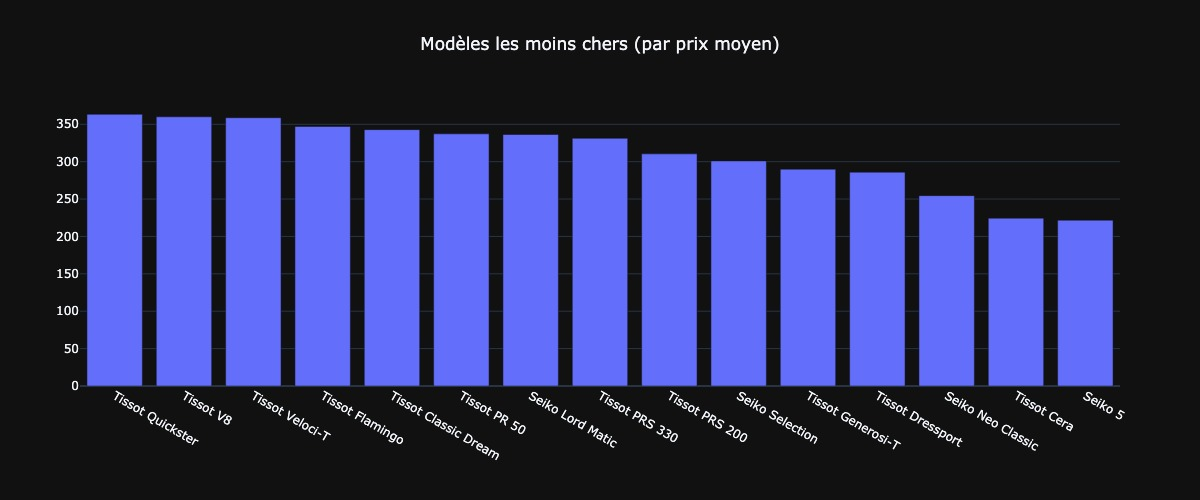
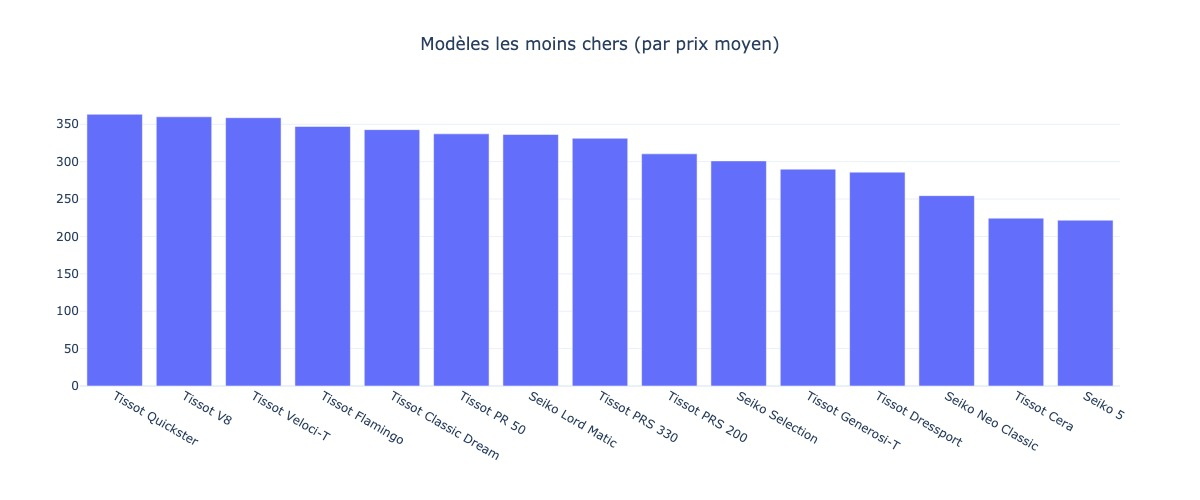
maj chart theme

diff --git a/single_analysis.py b/single_analysis.py
@@ -6,7 +6,7 @@ from utils import listdir_nohidden
 name = list(listdir_nohidden("./data"))[0]
 print(name)
 data = pd.read_csv(f"./data/{name}", index_col=0, sep=";")
-theme = "plotly_dark"
+theme = "plotly_white"
 
 
 count_per_brands = data["brand"].value_counts()

diff --git a/create_readme.py b/create_readme.py
@@ -6,7 +6,7 @@ import datetime
 from utils import listdir_nohidden
 
 
-theme = "plotly_dark"
+theme = "plotly_white"
 
 files = listdir_nohidden("./data")
 sizes = []
